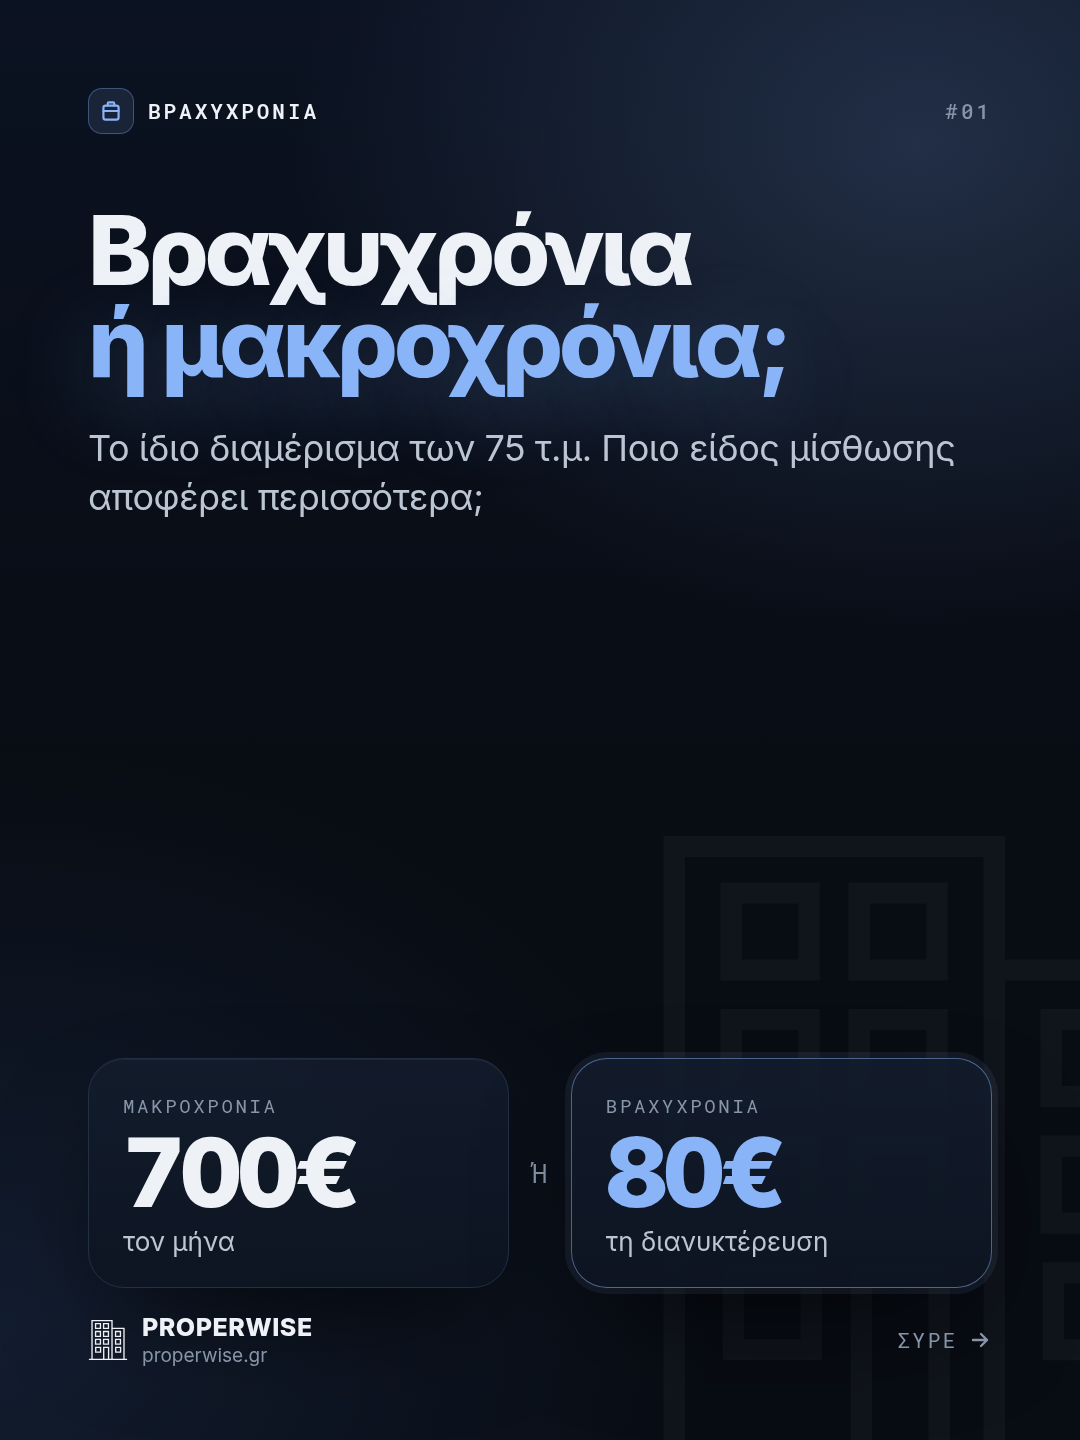
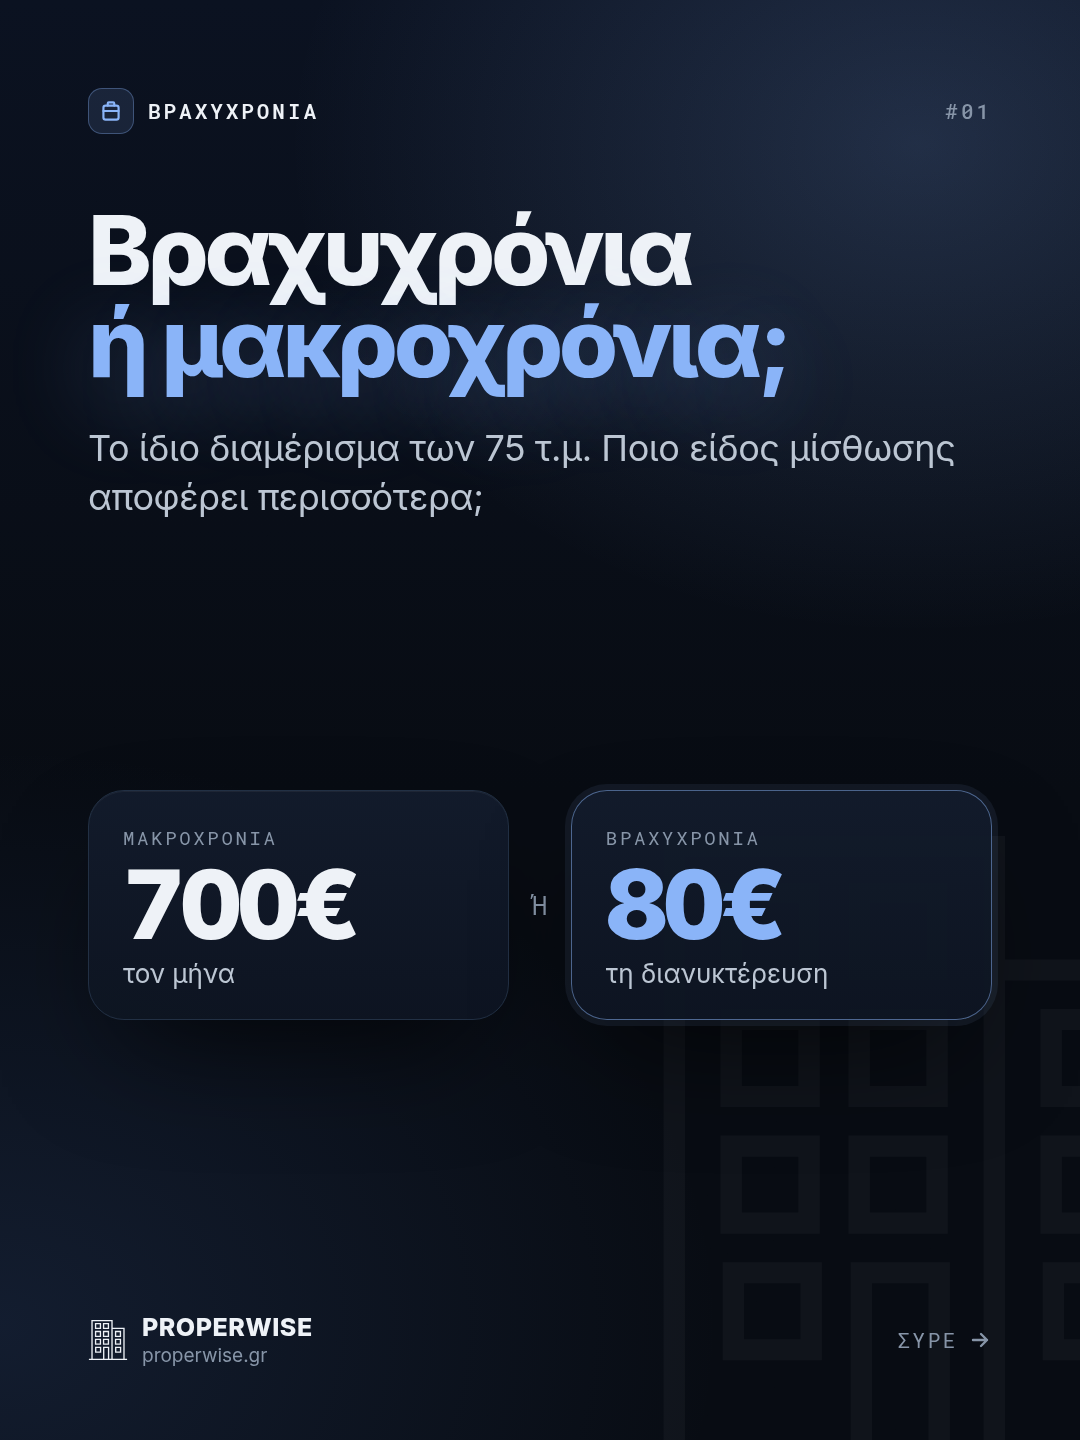
Carousel των σειρών: κάρτες στο κέντρο, «Σε μία ματιά» χωρίς λάθος ετικέτα
Στο feed δεν μπαίνουν αυτοκόλλητα, αλλά οι κάρτες έμεναν κολλημένες κάτω με
κενό από πάνω τους, όπως στο story. Τώρα κάθονται στο κέντρο του χώρου που
περισσεύει. Η κάρτα «Σε μία ματιά» του ΕΝΦΙΑ έγραφε «ΠΑΡΑΔΕΙΓΜΑ», ενώ οι
ημερομηνίες και ο νόμος είναι πραγματικά· η ετικέτα φεύγει εκεί. Διορθώνεται
και η στοίχιση της κεφαλίδας της.

Claude-Session: https://claude.ai/code/session_01FciDzM5oCHC6crgCfFdPE1

diff --git a/scripts/marketing/seires.ts b/scripts/marketing/seires.ts
@@ -188,14 +188,14 @@ const ACTION_CSS = (s: Palette) => `
 // Η διαφάνεια που κρατά κανείς: τα τέσσερα νούμερα του επεισοδίου σε έναν
 // πίνακα και ρητό «Αποθήκευσέ το». Οι αποθηκεύσεις και οι αποστολές είναι τα
 // σήματα που μετρά το Instagram για το carousel· το story δεν τη χρειάζεται.
-function summarySlide(s: Palette, title: string, facts: [string, string, string?][], save: string): Slide {
+function summarySlide(s: Palette, title: string, facts: [string, string, string?][], save: string, example = true): Slide {
   return {
     only: 'feed',
     alt: `Σε μία ματιά: ${facts.map(([l, v]) => `${l} ${v}`).join(', ')}. ${save}`,
     body: () => `<div class="act" style="display:flex;flex-direction:column;flex:1">
       <h2 style="margin-top:60px">Σε μία<br><span class="acc">ματιά.</span></h2>
       <div class="card sum" style="margin-top:40px">
-        <div class="bx-h"><b>${esc(title)}</b><span class="ex">ΠΑΡΑΔΕΙΓΜΑ</span></div>
+        <div class="bx-h"><b>${esc(title)}</b>${example ? '<span class="ex">ΠΑΡΑΔΕΙΓΜΑ</span>' : ''}</div>
         ${facts.map(([l, v, note]) => `<div class="sm-r"><span>${esc(l)}${note ? `<em>${esc(note)}</em>` : ''}</span><b class="num">${esc(v)}</b></div>`).join('')}
       </div>
       <div class="savebar" style="margin-top:auto">${ICON.save(s.onAccent, 52)}<span>${esc(save)}</span></div>
@@ -204,6 +204,8 @@ function summarySlide(s: Palette, title: string, facts: [string, string, string?
 }
 const SUM_CSS = (s: Palette) => `
   .sum{padding:30px 34px 14px}
+  .sum .bx-h{display:flex;align-items:center;justify-content:space-between;margin-bottom:18px}
+  .sum .bx-h b{font-size:calc(var(--body) + 2px);font-weight:750}
   .sm-r{display:flex;justify-content:space-between;align-items:center;gap:24px;padding:22px 0;border-top:1.5px solid ${s.rule}99;font-size:30px;color:${s.muted}}
   .sm-r em{display:block;font-style:normal;font-size:22px;color:${s.faint};margin-top:4px}
   .sm-r b{color:${s.ink};font-size:44px;font-weight:850;letter-spacing:-.03em;white-space:nowrap}
@@ -510,7 +512,7 @@ function foroi01(): Episode {
       ['Η επόμενη δόση', `${dd}/${mm}`, `${weekday}, η ${next + 1}η από τις ${run.length}`],
       ['Κάθε δόση λήγει', 'τέλος μήνα', `την τελευταία εργάσιμη (${law})`],
       ['Φόρος ανά τ.μ.', `${fe(zMin)}–${fe(zMax)}`, 'ανάλογα με την τιμή ζώνης'],
-    ], 'Αποθήκευσέ το για τις επόμενες δόσεις.'),
+    ], 'Αποθήκευσέ το για τις επόμενες δόσεις.', false),
     noaSlide(s, camp, 'Πότε λήγει η επόμενη δόση του ΕΝΦΙΑ;',
       `${weekday} ${elDate(due.date, { day: 'numeric', month: 'long' })}. Είναι η ${next + 1}η από τις ${run.length}· μετά μένουν ${run.length - next - 1}, ως τις ${elDate(run[run.length - 1].date, { day: 'numeric', month: 'long', year: 'numeric' })}.`,
       { day: s.day, title: `Ανακαίνιση: η έκπτωση φόρου για δαπάνες ως ${RENO_39B_TO}` }),

diff --git a/scripts/marketing/seiresKit.ts b/scripts/marketing/seiresKit.ts
@@ -229,6 +229,9 @@ export function shell(f: Format, s: Palette, ep: { no: number }, i: number, n: n
   .swipe{display:flex;align-items:center;gap:10px;font-family:'Roboto Mono',monospace;font-size:21px;letter-spacing:.12em;color:${s.faint}}
   ${MOTION}
   ${css}
+  ${story ? '' : `/* ΣΤΟ CAROUSEL ΔΕΝ ΜΠΑΙΝΟΥΝ ΑΥΤΟΚΟΛΛΗΤΑ: η κάρτα κάθεται στο κέντρο του χώρου
+     που περισσεύει, όχι κολλημένη κάτω με κενό από πάνω της. */
+  .wrap > .card, .wrap > .duo, .wrap > .big{margin-bottom:auto !important}`}
   </style></head><body>
   <div class="bg"></div><div class="grain"></div>
   <div class="ghost">${mark(story ? 760 : 640, s.ink)}</div>
